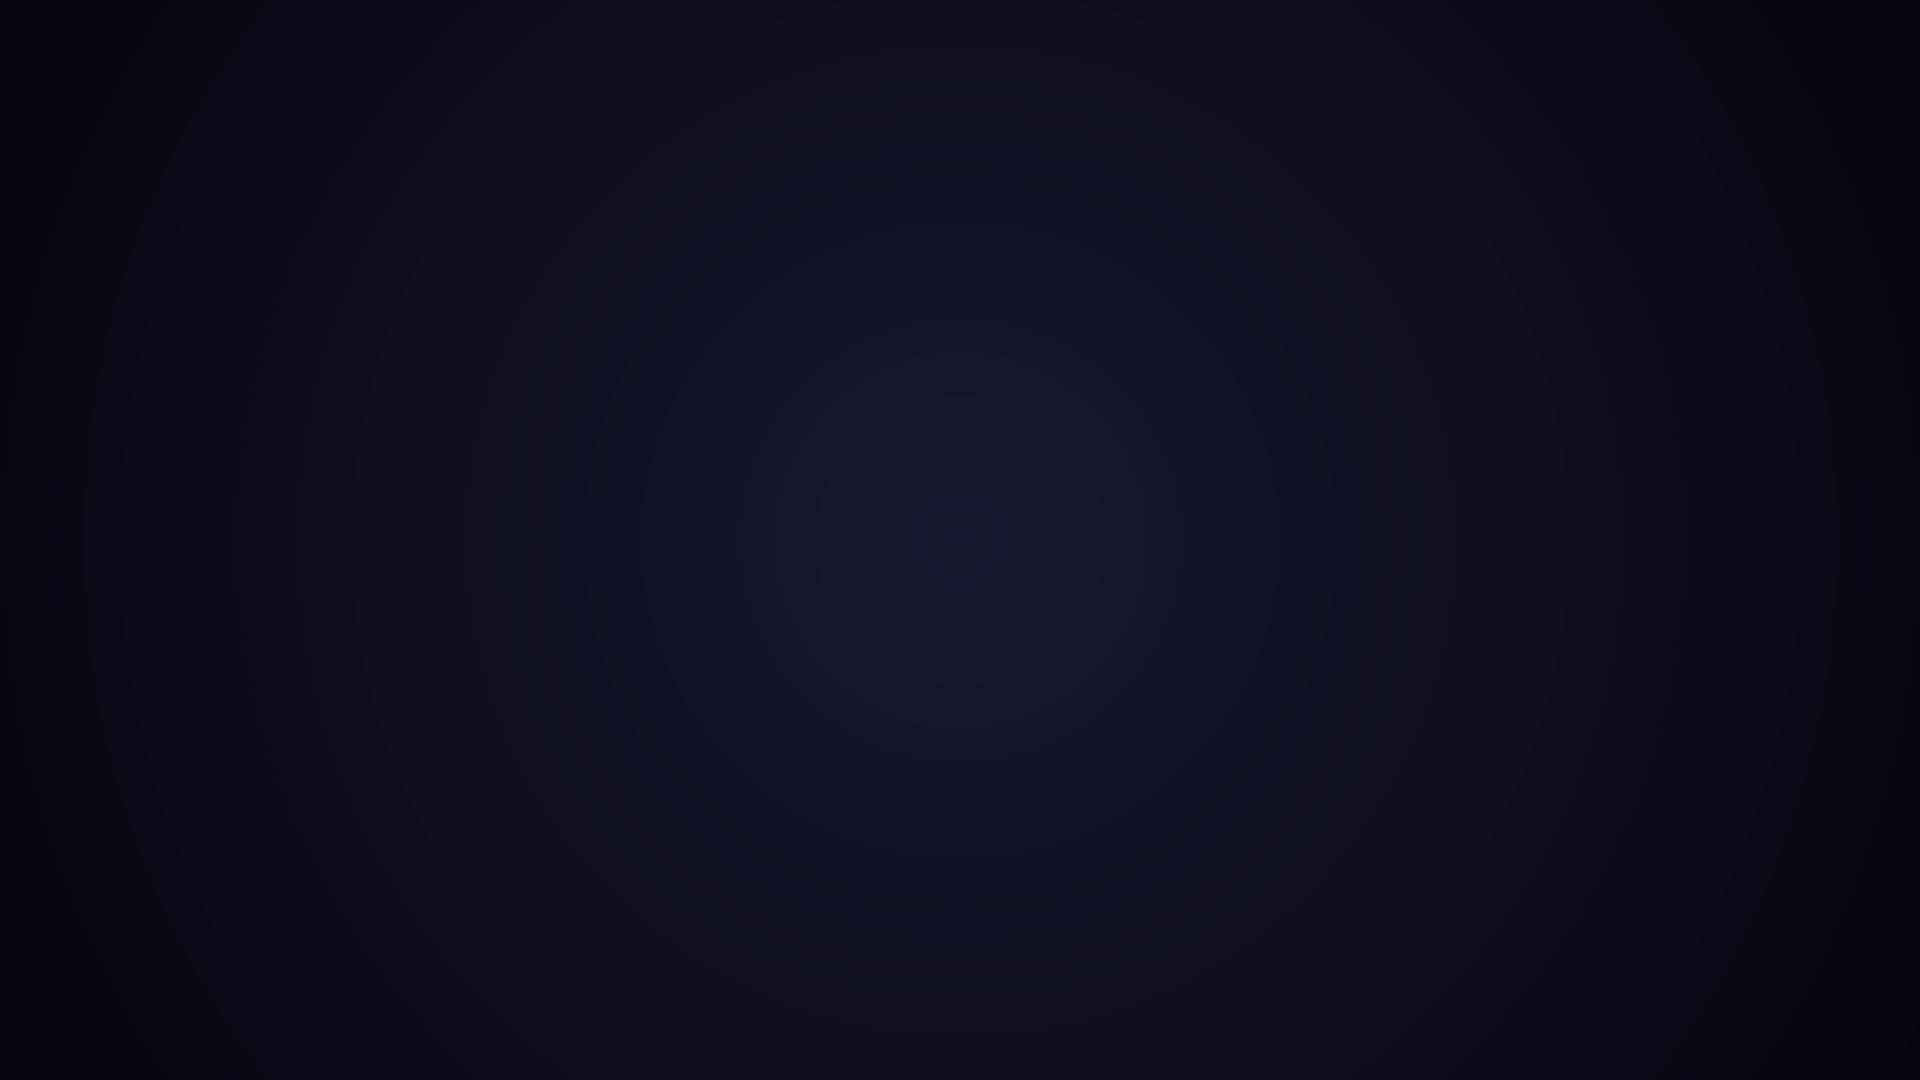
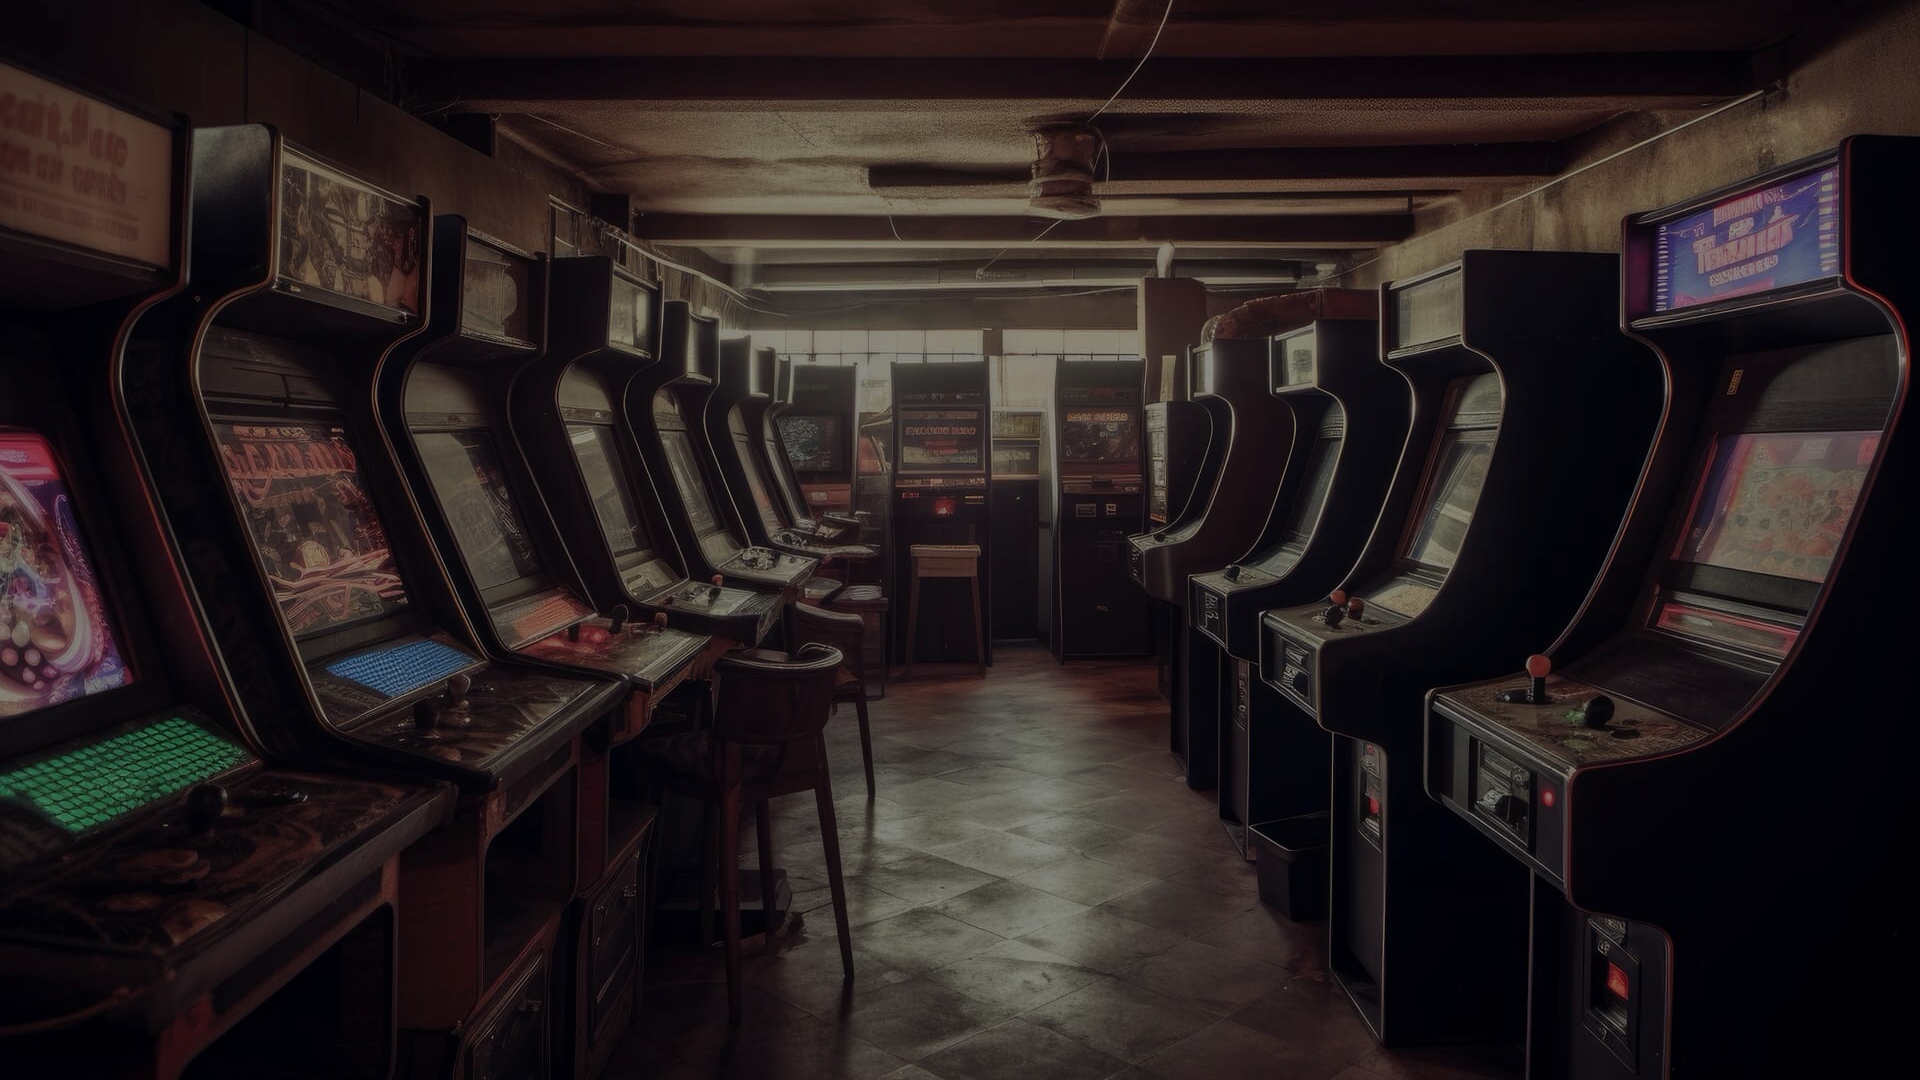
menu-ui: use real arcade wallpaper, render fully opaque
Replace the procedural gradient wallpaper with the existing
src/firmware-script/assets/background.jpg. gen_demo_assets now
center-crops to 16:9, resizes to 1920x1080, and pre-multiplies RGB
by 0.55 during PNG conversion so the App can drop opacity: 0.55
on the <img>. With alpha=0xFF the FPGA blit takes the Opaque
fast path — no dst read per pixel — which halves DDR3 traffic
for the wallpaper area (the full screen). Helps the 7-fps
navigation low we were seeing with the previous SrcAlpha path.

diff --git a/js/frontend/src/menu-ui/App.tsx b/js/frontend/src/menu-ui/App.tsx
@@ -29,11 +29,12 @@ const bgImageStyle: CSSProperties = {
   left: 0,
   width: 1920,
   height: 1080,
-  // Dim the wallpaper slightly so the UI on top reads cleanly.
-  // True per-pixel "tint darker" needs FPGA work; for now we lean
-  // on opacity over the dark root background to get the same
-  // visual effect cheaply.
-  opacity: 0.55,
+  // Wallpaper is pre-darkened during PNG conversion (see
+  // src/menu-ui/src/bin/gen_demo_assets.rs) so we can render it
+  // fully opaque here. The FPGA blit takes the Opaque blend fast
+  // path — no dst read per pixel — which more than halves the
+  // background's per-frame DDR3 traffic vs. the previous
+  // `opacity: 0.55 over root_bg` approach.
 };
 
 export function App() {

diff --git a/src/menu-ui/src/bin/gen_demo_assets.rs b/src/menu-ui/src/bin/gen_demo_assets.rs
@@ -16,18 +16,81 @@ const BG_H: u32 = 1080;
 const ICON: u32 = 128;
 
 fn main() -> std::io::Result<()> {
-    let out_dir = workspace_root().join("docs/assets/menu-ui-demo");
+    let root = workspace_root();
+    let out_dir = root.join("docs/assets/menu-ui-demo");
     fs::create_dir_all(&out_dir)?;
 
-    write_png(&out_dir.join("bg.png"), BG_W, BG_H, &background())?;
+    // Convert the existing background.jpg into a 16:9 PNG suitable
+    // for the wallpaper image element. We pre-darken the RGB during
+    // conversion so the host can render it with `opacity: 1.0` and
+    // the FPGA can use the Opaque blend path — saves a dst read per
+    // pixel relative to the previous "opacity: 0.55 over root_bg"
+    // approach, which is the dominant per-frame cost.
+    let src_jpg = root.join("src/firmware-script/assets/background.jpg");
+    convert_wallpaper(&src_jpg, &out_dir.join("bg.png"))?;
+
     write_png(&out_dir.join("nes.png"),     ICON, ICON, &icon_nes())?;
     write_png(&out_dir.join("snes.png"),    ICON, ICON, &icon_snes())?;
     write_png(&out_dir.join("genesis.png"), ICON, ICON, &icon_genesis())?;
     write_png(&out_dir.join("gameboy.png"), ICON, ICON, &icon_gameboy())?;
     write_png(&out_dir.join("atari.png"),   ICON, ICON, &icon_atari())?;
 
-    println!("wrote {} PNGs to {}", 6, out_dir.display());
+    println!("wrote 6 PNGs to {}", out_dir.display());
     Ok(())
+}
+
+/// Load `src` (JPG or PNG), centre-crop to 16:9 against the
+/// framebuffer's 1920×1080 target, multiply each pixel's RGB by
+/// `DARKEN` so the foreground UI reads cleanly without needing a
+/// runtime opacity blend, and write `dst` as an opaque PNG.
+fn convert_wallpaper(src: &Path, dst: &Path) -> std::io::Result<()> {
+    /// How much of the original luminance to keep. 0.55 matches the
+    /// previous in-engine `opacity: 0.55` value the App was using.
+    const DARKEN: f32 = 0.55;
+
+    let img = image::ImageReader::open(src)
+        .map_err(|e| std::io::Error::other(format!("open {}: {e}", src.display())))?
+        .decode()
+        .map_err(|e| std::io::Error::other(format!("decode {}: {e}", src.display())))?
+        .to_rgb8();
+    let (w, h) = (img.width(), img.height());
+
+    // Centre-crop to BG_W × BG_H — keep the central strip when the
+    // source is taller than 16:9.
+    let target_aspect = BG_W as f32 / BG_H as f32;
+    let src_aspect = w as f32 / h as f32;
+    let (crop_w, crop_h) = if src_aspect > target_aspect {
+        // Source is wider — crop sides.
+        ((h as f32 * target_aspect) as u32, h)
+    } else {
+        // Source is taller — crop top + bottom.
+        (w, (w as f32 / target_aspect) as u32)
+    };
+    let x0 = (w - crop_w) / 2;
+    let y0 = (h - crop_h) / 2;
+    let cropped = image::imageops::crop_imm(&img, x0, y0, crop_w, crop_h).to_image();
+
+    // Resize to exact BG_W × BG_H. Use a triangle (linear) filter —
+    // fast and adequate for a softly-textured wallpaper.
+    let resized = image::imageops::resize(
+        &cropped,
+        BG_W,
+        BG_H,
+        image::imageops::FilterType::Triangle,
+    );
+
+    // Darken + emit as RGBA8 (alpha = 0xFF so the FPGA paint can
+    // pick the Opaque blend fast path).
+    let mut rgba = Vec::with_capacity((BG_W * BG_H * 4) as usize);
+    for px in resized.pixels() {
+        let [r, g, b] = px.0;
+        let darken = |c: u8| ((c as f32 * DARKEN).clamp(0.0, 255.0)) as u8;
+        rgba.push(darken(r));
+        rgba.push(darken(g));
+        rgba.push(darken(b));
+        rgba.push(0xFF);
+    }
+    write_png(dst, BG_W, BG_H, &rgba)
 }
 
 /// Walk up from CARGO_MANIFEST_DIR until we find a `Cargo.lock` (the
@@ -56,44 +119,6 @@ fn write_png(path: &Path, w: u32, h: u32, rgba: &[u8]) -> std::io::Result<()> {
         .write_image_data(rgba)
         .map_err(|e| std::io::Error::other(format!("png data: {e}")))?;
     Ok(())
-}
-
-// ---- Background -----------------------------------------------------
-
-/// Subtle radial-ish gradient from a slightly warmer dark blue at the
-/// center toward near-black at the edges. Adds vignette so the focused
-/// card pops more.
-fn background() -> Vec<u8> {
-    let cx = (BG_W as f32) * 0.5;
-    let cy = (BG_H as f32) * 0.5;
-    let r_max = ((cx * cx + cy * cy) as f32).sqrt();
-    let mut out = Vec::with_capacity((BG_W * BG_H * 4) as usize);
-    for y in 0..BG_H {
-        for x in 0..BG_W {
-            let dx = x as f32 - cx;
-            let dy = y as f32 - cy;
-            let r = (dx * dx + dy * dy).sqrt() / r_max;       // 0..1
-            // Inner color (center): #181830; outer color (corners): #050510.
-            let t = clamp01(r);
-            let (ir, ig, ib) = (0x18, 0x18, 0x30);
-            let (or_, og, ob) = (0x05, 0x05, 0x10);
-            let r8 = lerp(ir, or_, t);
-            let g8 = lerp(ig, og, t);
-            let b8 = lerp(ib, ob, t);
-            out.extend_from_slice(&[r8, g8, b8, 0xFF]);
-        }
-    }
-    out
-}
-
-fn lerp(a: u8, b: u8, t: f32) -> u8 {
-    let a = a as f32;
-    let b = b as f32;
-    (a + (b - a) * t).round().clamp(0.0, 255.0) as u8
-}
-
-fn clamp01(t: f32) -> f32 {
-    t.clamp(0.0, 1.0)
 }
 
 // ---- Icons ----------------------------------------------------------
